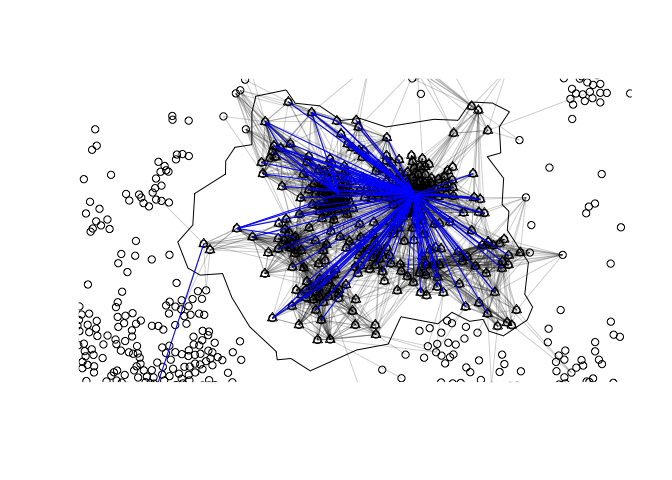
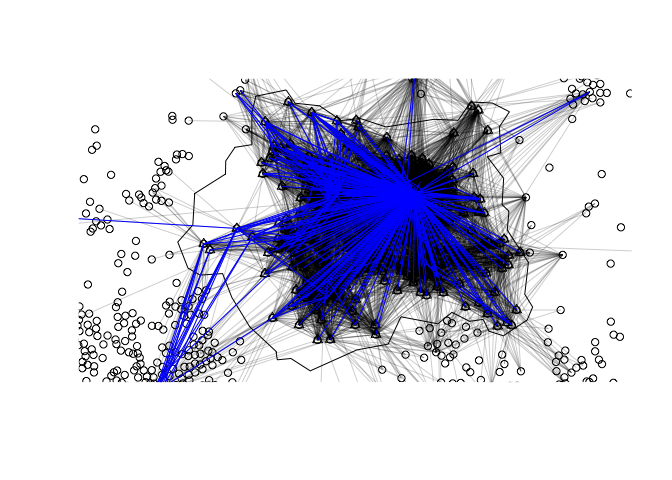
Re-build Rmarkdown files

Changed region(s): [[0.125, 0.1562, 0.875, 0.8125]]

diff --git a/README.md b/README.md
@@ -60,23 +60,25 @@ the national dataset is shown below.
     #>   LATITUDE = col_double()
     #> )
 
-| geo_code1 | geo_code2 | all | from_home | light_rail | train | bus | taxi | motorbike | car_driver | car_passenger | bicycle | foot | other | geo_name1                     | geo_name2     | la_1                      | la_2      |
-|:----------|:----------|----:|----------:|-----------:|------:|----:|-----:|----------:|-----------:|--------------:|--------:|-----:|------:|:------------------------------|:--------------|:--------------------------|:----------|
-| E02002640 | E02001037 |   1 |         0 |          0 |     0 |   1 |    0 |         0 |          0 |             0 |       0 |    0 |     0 | Blackpool 008                 | Bury 019      | Blackpool                 | Bury      |
-| E02000756 | E02000404 |   2 |         0 |          0 |     0 |   0 |    0 |         0 |          2 |             0 |       0 |    0 |     0 | Redbridge 006                 | Haringey 008  | Redbridge                 | Haringey  |
-| E02003877 | E02005647 |   1 |         0 |          0 |     0 |   0 |    0 |         0 |          1 |             0 |       0 |    0 |     0 | Cheshire West and Chester 015 | Kettering 009 | Cheshire West and Chester | Kettering |
+| geo_code1 | geo_code2 | all | from_home | light_rail | train | bus | taxi | motorbike | car_driver | car_passenger | bicycle | foot | other | geo_name1     | geo_name2     | la_1      | la_2      |
+|:----------|:----------|----:|----------:|-----------:|------:|----:|-----:|----------:|-----------:|--------------:|--------:|-----:|------:|:--------------|:--------------|:----------|:----------|
+| E02000431 | E02000839 |   1 |         0 |          0 |     0 |   0 |    0 |         0 |          1 |             0 |       0 |    0 |     0 | Haringey 035  | Southwark 033 | Haringey  | Southwark |
+| E02000337 | E02000826 |   2 |         0 |          0 |     0 |   0 |    0 |         0 |          2 |             0 |       0 |    0 |     0 | Greenwich 025 | Southwark 020 | Greenwich | Southwark |
+| E02000814 | E02000189 |   5 |         0 |          2 |     0 |   2 |    0 |         0 |          0 |             0 |       1 |    0 |     0 | Southwark 008 | Camden 024    | Southwark | Camden    |
 
 The case study region of West Yorkshire is used to subset the data. OD
 pairs with more than 50 people by any mode and with more than 50 people
 travelling by rail are shown below.
 
     #> 0 origins with no match in zone ids
-    #> 596 destinations with no match in zone ids
+    #> 618 destinations with no match in zone ids
     #>  points not in od data removed.
 
 ![](README_files/figure-gfm/unnamed-chunk-3-1.png)<!-- -->
 
 # Rail station data
+
+![](README_files/figure-gfm/unnamed-chunk-5-1.png)<!-- -->
 
 # Transit routing
 
